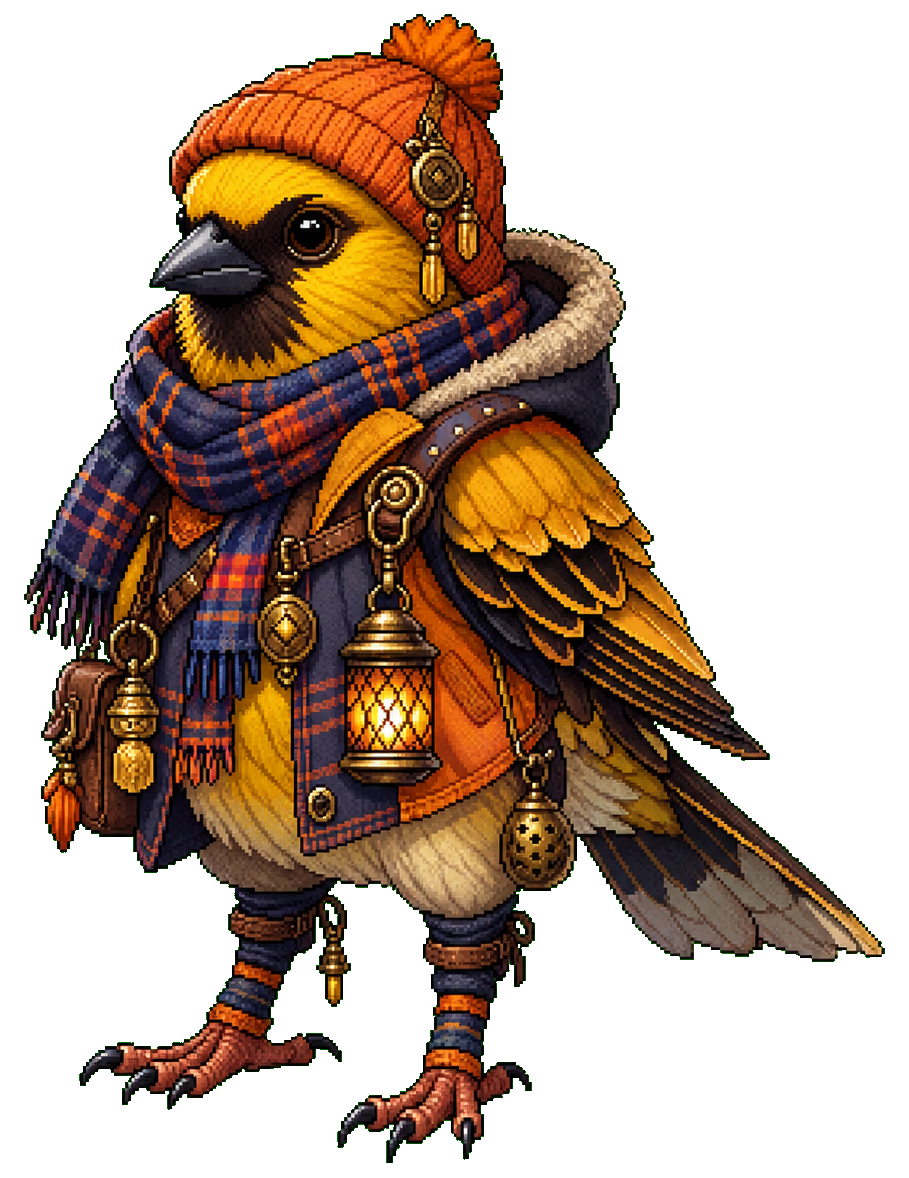
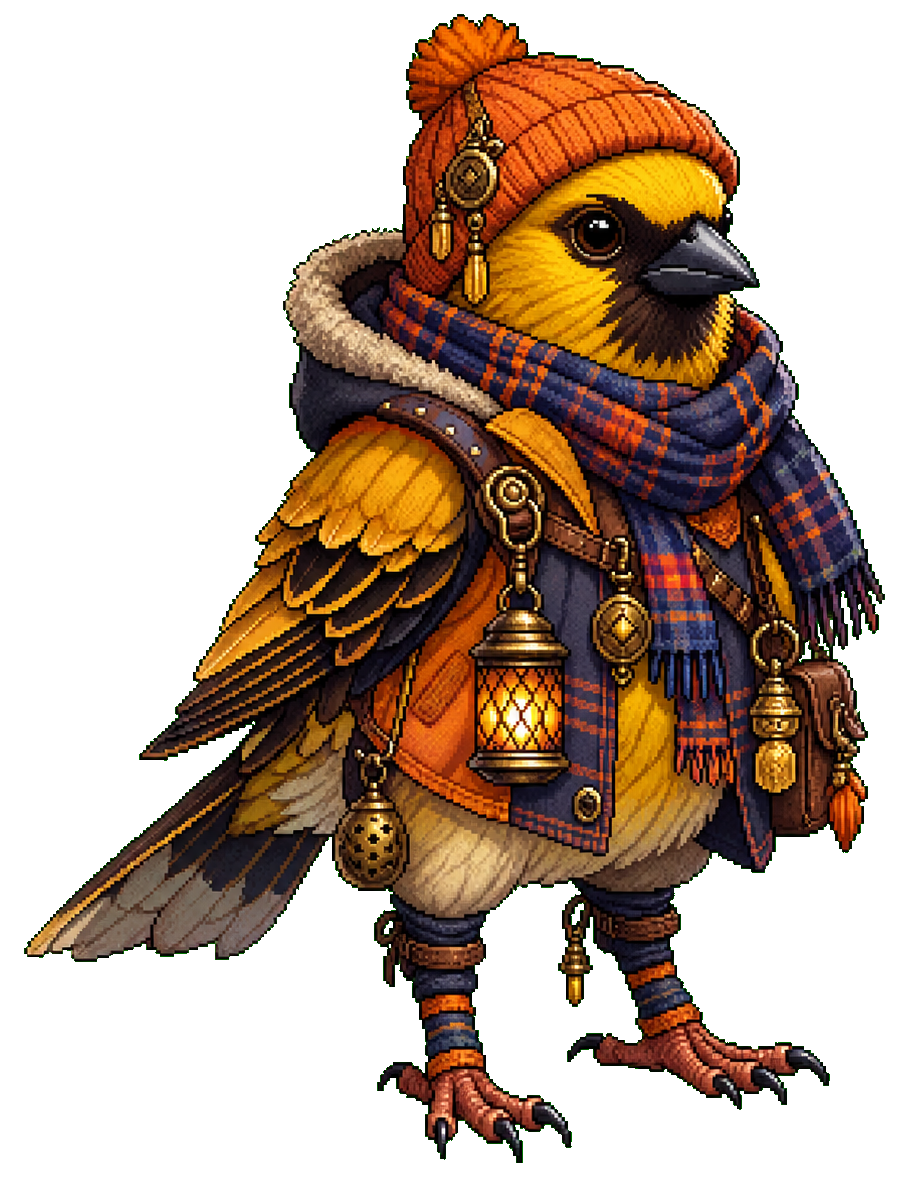
Mirror route event residents

diff --git a/progress.md b/progress.md
@@ -560,6 +560,12 @@ Original prompt: make it happen, can you wire the found artifacts in an appropri
 - Oren Shearbright art replacement and layout polish: replaced Featherwright Studio's resident source with the supplied cleaned `C:\Users\Will\Desktop\4-2.png`, regenerated the chroma source, transparent alpha review PNG, and `assets/runtime/route-events/oren-shearbright-v2.webp`, then gave Nest events a larger resident frame while preserving Oren's natural tall ratio. Sella Warmwick's Lantern Roost resident placement also shifted right to sit better in the shelter composition.
 - Verification: `node tools/validate-runtime-asset-sizes.mjs`, `npm run validate:runtime`, `npm run build`, focused Playwright route-event test, required `develop-web-game` client on built preview `http://127.0.0.1:5657/`, alpha preview `.artifacts/oren-shearbright-v3-cleanup-preview.png`, and in-game screenshots `.artifacts/route-event-qa/oren-shearbright-cleaned-larger.png` plus `.artifacts/route-event-qa/sella-warmwick-shifted-right.png`.
 
+- Sella Warmwick mirror pass: horizontally mirrored the Lantern Roost v2 resident source set (`sella-warmwick-v2-chroma-source.png`, `sella-warmwick-v2-alpha-source.png`) and regenerated `assets/runtime/route-events/sella-warmwick-v2.webp` so Sella faces right in the Basin set piece without changing her placement or natural aspect ratio.
+- Verification: visual matte preview `.artifacts/sella-warmwick-v2-mirrored-preview.png`, `node tools/validate-runtime-asset-sizes.mjs`, `npm run validate:runtime`, `npm run build`, focused Playwright route-event test, required `develop-web-game` client on built preview `http://127.0.0.1:5658/`, and in-game screenshot `.artifacts/route-event-qa/sella-warmwick-mirrored.png`.
+
+- Oren Shearbright mirror pass: horizontally mirrored the Featherwright Studio v2 resident source set (`oren-shearbright-v2-chroma-source.png`, `oren-shearbright-v2-alpha-source.png`) and regenerated `assets/runtime/route-events/oren-shearbright-v2.webp` so Oren faces right into the Nest set piece while keeping the larger natural-ratio placement.
+- Verification: visual matte preview `.artifacts/oren-shearbright-v2-mirrored-preview.png`, `node tools/validate-runtime-asset-sizes.mjs`, `npm run validate:runtime`, `npm run build`, focused Playwright route-event test, required `develop-web-game` client on built preview `http://127.0.0.1:5659/`, and in-game screenshot `.artifacts/route-event-qa/oren-shearbright-mirrored.png`.
+
 - New user prompt: review the game's balance because it feels too easy and card spam makes decisions less meaningful.
 - First combat-balance pass: lowered base hand target from 5 to 4, added an overextension pressure valve where playing 4+ cards before Roost puts the flock into Open Sky for the enemy phase, and reduced automatic post-combat recovery from +3 to +1 Cohesion. Intent: preserve card identities while making the fourth card and route sustain choices matter more.
 - Added smoke coverage for the overextension breakpoint and updated alpha/core design docs to document the new hand target, anti-spam rule, and lighter passive recovery.
